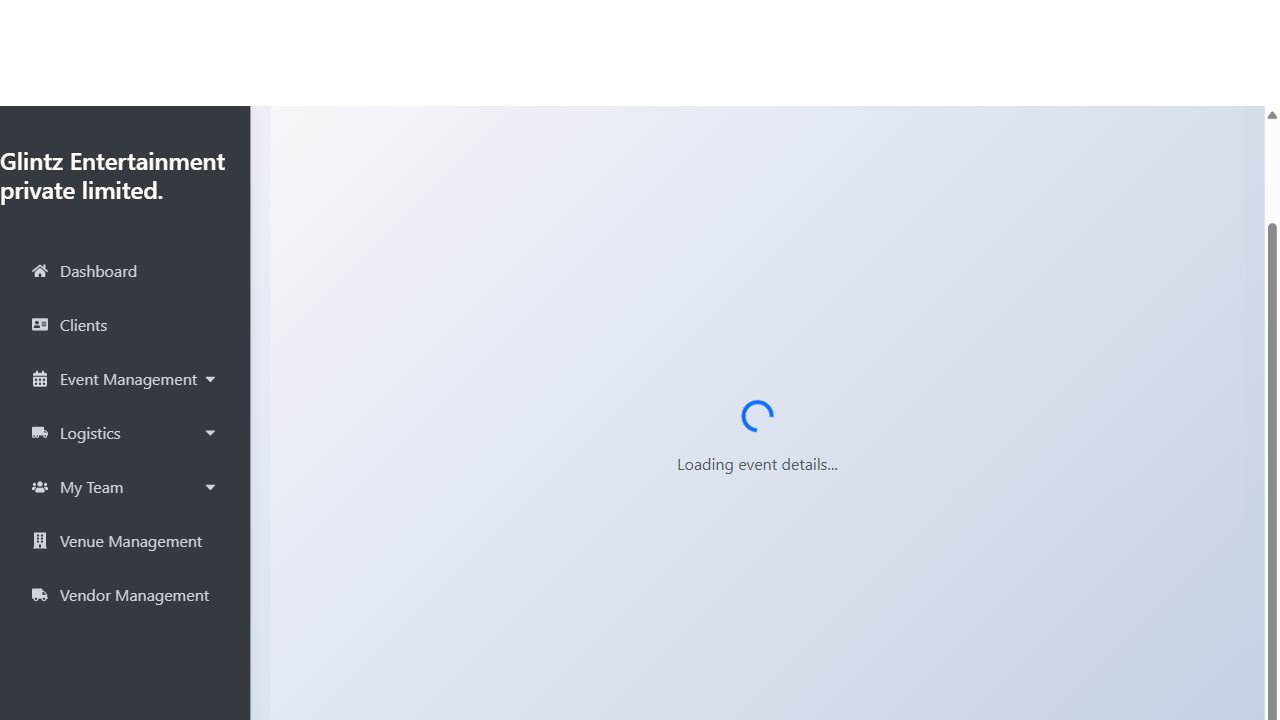
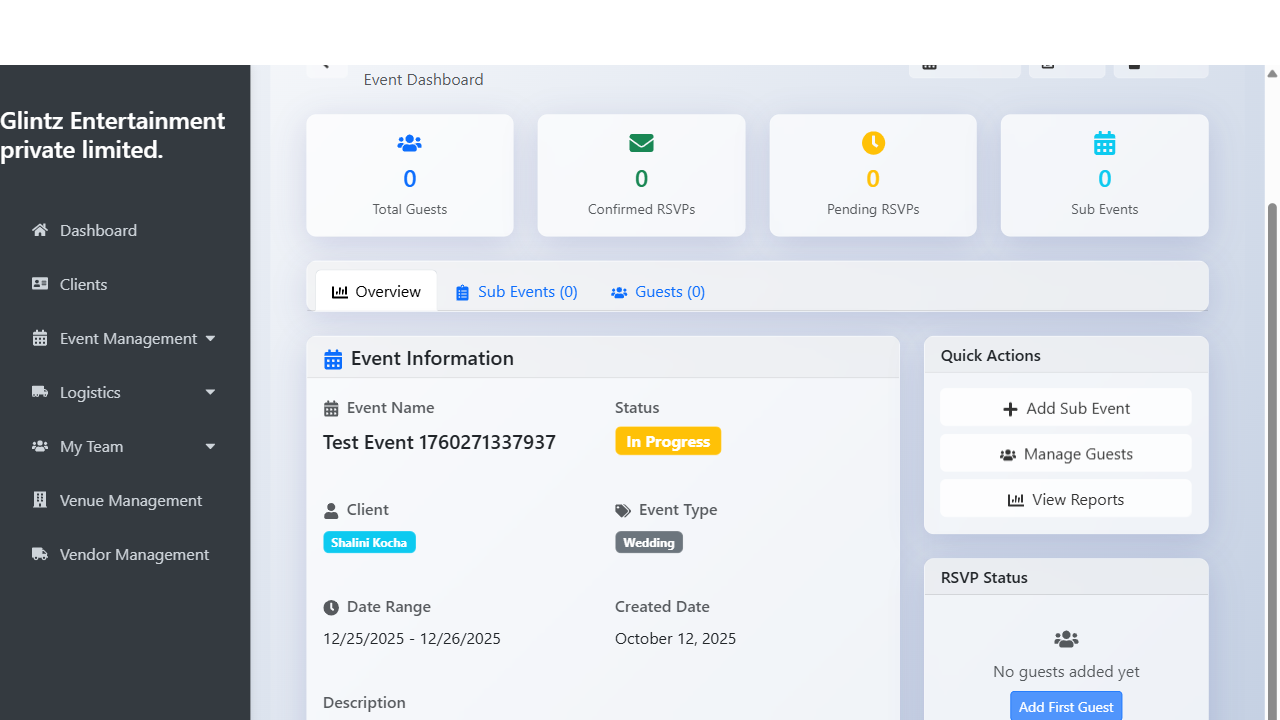
event creation with pass result

diff --git a/tests/events/add-event.spec.js b/tests/events/add-event.spec.js
@@ -48,22 +48,17 @@ test.describe('Add Event Tests', () => {
     await page.screenshot({ path: 'event-creation.png' });
     console.log('Screenshot saved as event-creation.png');
 
-    // Check for success message or redirect
-    try {
-      await expect(page).toHaveURL(/events\/list/, { timeout: 10000 });
-      console.log('Successfully redirected to events list');
-    } catch (error) {
-      console.error('Not redirected to events list. Current URL:', page.url());
-      throw error;
-    }
+    // 1. Assert that we are redirected to the new event's detail page
+    await expect(page).toHaveURL(/events\/\d+/, { timeout: 10000 });
+    console.log('Successfully redirected to the event detail page.');
 
-    // Verify the new event appears in the list
-    try {
-      await expect(page.getByText(uniqueEventName)).toBeVisible({ timeout: 10000 });
-      console.log('Event found in the list');
-    } catch (error) {
-      console.error('Event not found in the list. Page content:', await page.content());
-      throw error;
-    }
+    // 2. Navigate back to the events list page
+    await eventsPage.goto();
+    await expect(page).toHaveURL(/events\/list/);
+    console.log('Navigated back to the events list page.');
+
+    // 3. Verify the new event appears in the list
+    await expect(page.getByText(uniqueEventName)).toBeVisible({ timeout: 10000 });
+    console.log(`Event '${uniqueEventName}' found in the list.`);
   });
 });
